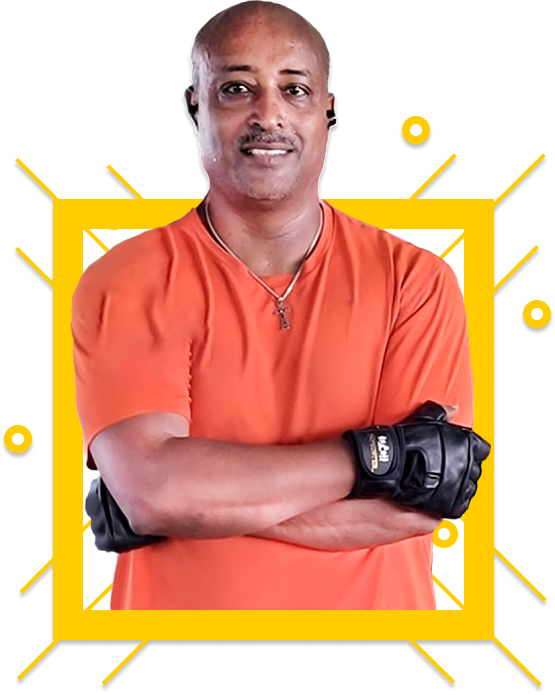
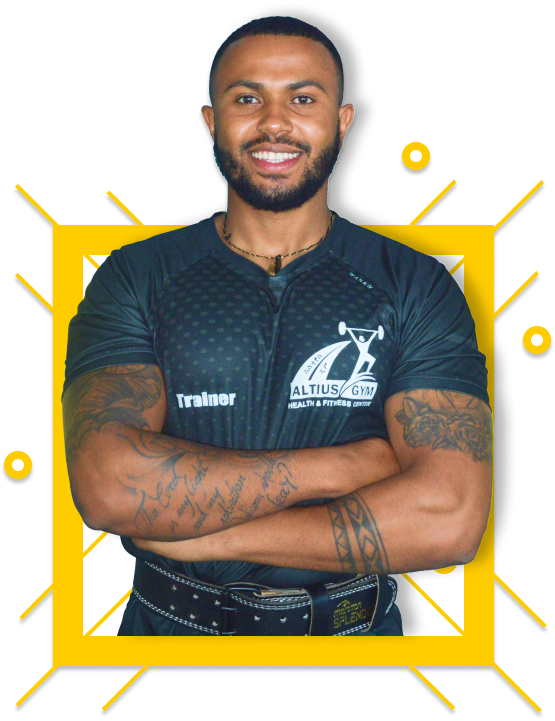
added coach photos and other minor fixes

diff --git a/index.html b/index.html
@@ -265,8 +265,8 @@
           <li id="coach-2">
             <div>
 
-              <p class="coach-name" style="-webkit-text-stroke: 3px var(--clr-accent-400);">Michael Leo</p>
-              <p>Hey, I'm Michael and I'm 28 years old. I have a background in Sports Medicine and I'm a certified
+              <p class="coach-name" style="-webkit-text-stroke: 3px var(--clr-accent-400);">Habtamu Girma</p>
+              <p>Hey, I'm Habtamu and I'm 28 years old. I have a background in Sports Medicine and I'm a certified
                 Strength
                 and
                 Conditioning Specialist. I've been coaching for 5 years now and I'm passionate about helping athletes
@@ -280,6 +280,20 @@
             <img src="resources/c3-pic.png" alt="">
             <div>
               <p class="coach-name" style="-webkit-text-stroke: 3px rgb(0, 199, 161);">Mike Smith</p>
+              <p>Hi there! My name is Emily and I'm one of the coaches at Altius Gym. I'm 28 years old and I hold a
+                degree
+                in Sport
+                Science. I have a passion for helping others achieve their fitness goals and I believe that everyone has
+                the
+                potential
+                to improve their health and well-being</p>
+            </div>
+          </li>
+
+          <li id="coach-4">
+            <img src="resources/c4-pic.png" alt="">
+            <div>
+              <p class="coach-name" style="-webkit-text-stroke: 3px #007BB6;">Mike Smith</p>
               <p>Hi there! My name is Emily and I'm one of the coaches at Altius Gym. I'm 28 years old and I hold a
                 degree
                 in Sport
@@ -322,7 +336,7 @@
               <div class="contact-info">
                 <div>
                   <img src="/resources/phone-icon.svg" alt="">
-                  <p>+251 91 119 6395</p>
+                  <a href="tel:+251911196395">+251911196395</a>
                 </div>
                 <div>
                   <img src="/resources/location-icon.svg" alt="">
@@ -330,7 +344,7 @@
                 </div>
                 <div>
                   <img src="/resources/email-icon.svg" alt="">
-                  <p>altiusgym@gmail.com</p>
+                  <a href="mailto: altiusgym@gmail.com">altiusgym@gmail.com</a>
                 </div>
               </div>
             </div>

diff --git a/footer.html b/footer.html
@@ -5,10 +5,10 @@
         <input class="button--submit" value="Subscribe" type="submit">
     </form>
     <ul class="socials">
-        <li><a href="#"><img src="/resources/tiktok-reverse.svg" alt=""></a></li>
-        <li><a href="#"><img src="/resources/fb-reverse.svg" alt=""></a></li>
-        <li><a href="#"><img src="resources/insta-reverse.svg" alt=""></a></li>
-        <li><a href="#"><img src="resources/yt-reverse.svg" alt=""></a></li>
+        <li><a href="https://www.tiktok.com/discover/altius-fitness-zone"><img src="/resources/tiktok-reverse.svg" alt=""></a></li>
+        <li><a href="https://www.facebook.com/1gymc/"><img src="/resources/fb-reverse.svg" alt=""></a></li>
+        <li><a href="https://www.instagram.com/gymaltius/"><img src="resources/insta-reverse.svg" alt=""></a></li>
+        <li><a href="https://www.youtube.com/@altiusfitzone9701"><img src="resources/yt-reverse.svg" alt=""></a></li>
     </ul>
     <p>&copy; 2023 Altius Gym. All rights reserved.</p>
 </div>

diff --git a/header.html b/header.html
@@ -16,21 +16,21 @@
         </nav>
         <ul class="socials">
             <li id="tiktok-primary">
-                <a href="#">
+                <a href="https://www.tiktok.com/discover/altius-fitness-zone">
 
                 </a>
             </li>
             <li id="fb-primary">
-                <a href="#">
+                <a href="https://www.facebook.com/1gymc/">
 
                 </a>
             </li>
             <li id="insta-primary">
-                <a href="#">
+                <a href="https://www.instagram.com/gymaltius/">
                 </a>
             </li>
             <li id="yt-primary">
-                <a href="#">
+                <a href="https://www.youtube.com/@altiusfitzone9701">
 
                 </a>
             </li>

diff --git a/index.css b/index.css
@@ -506,10 +506,13 @@ h1,
 #coach-3 {
   background-image: url("/resources/c3-bg.png");
 }
+#coach-4 {
+  background-image: url("/resources/c3-bg.png");
+}
 
 .coach-name {
   -webkit-text-fill-color: transparent;
-  font-size: 6rem;
+  font-size: 5rem;
   font-family: 'Roboto' sans-serif;
   font-weight: var(--fw-semi-bold);
 }
